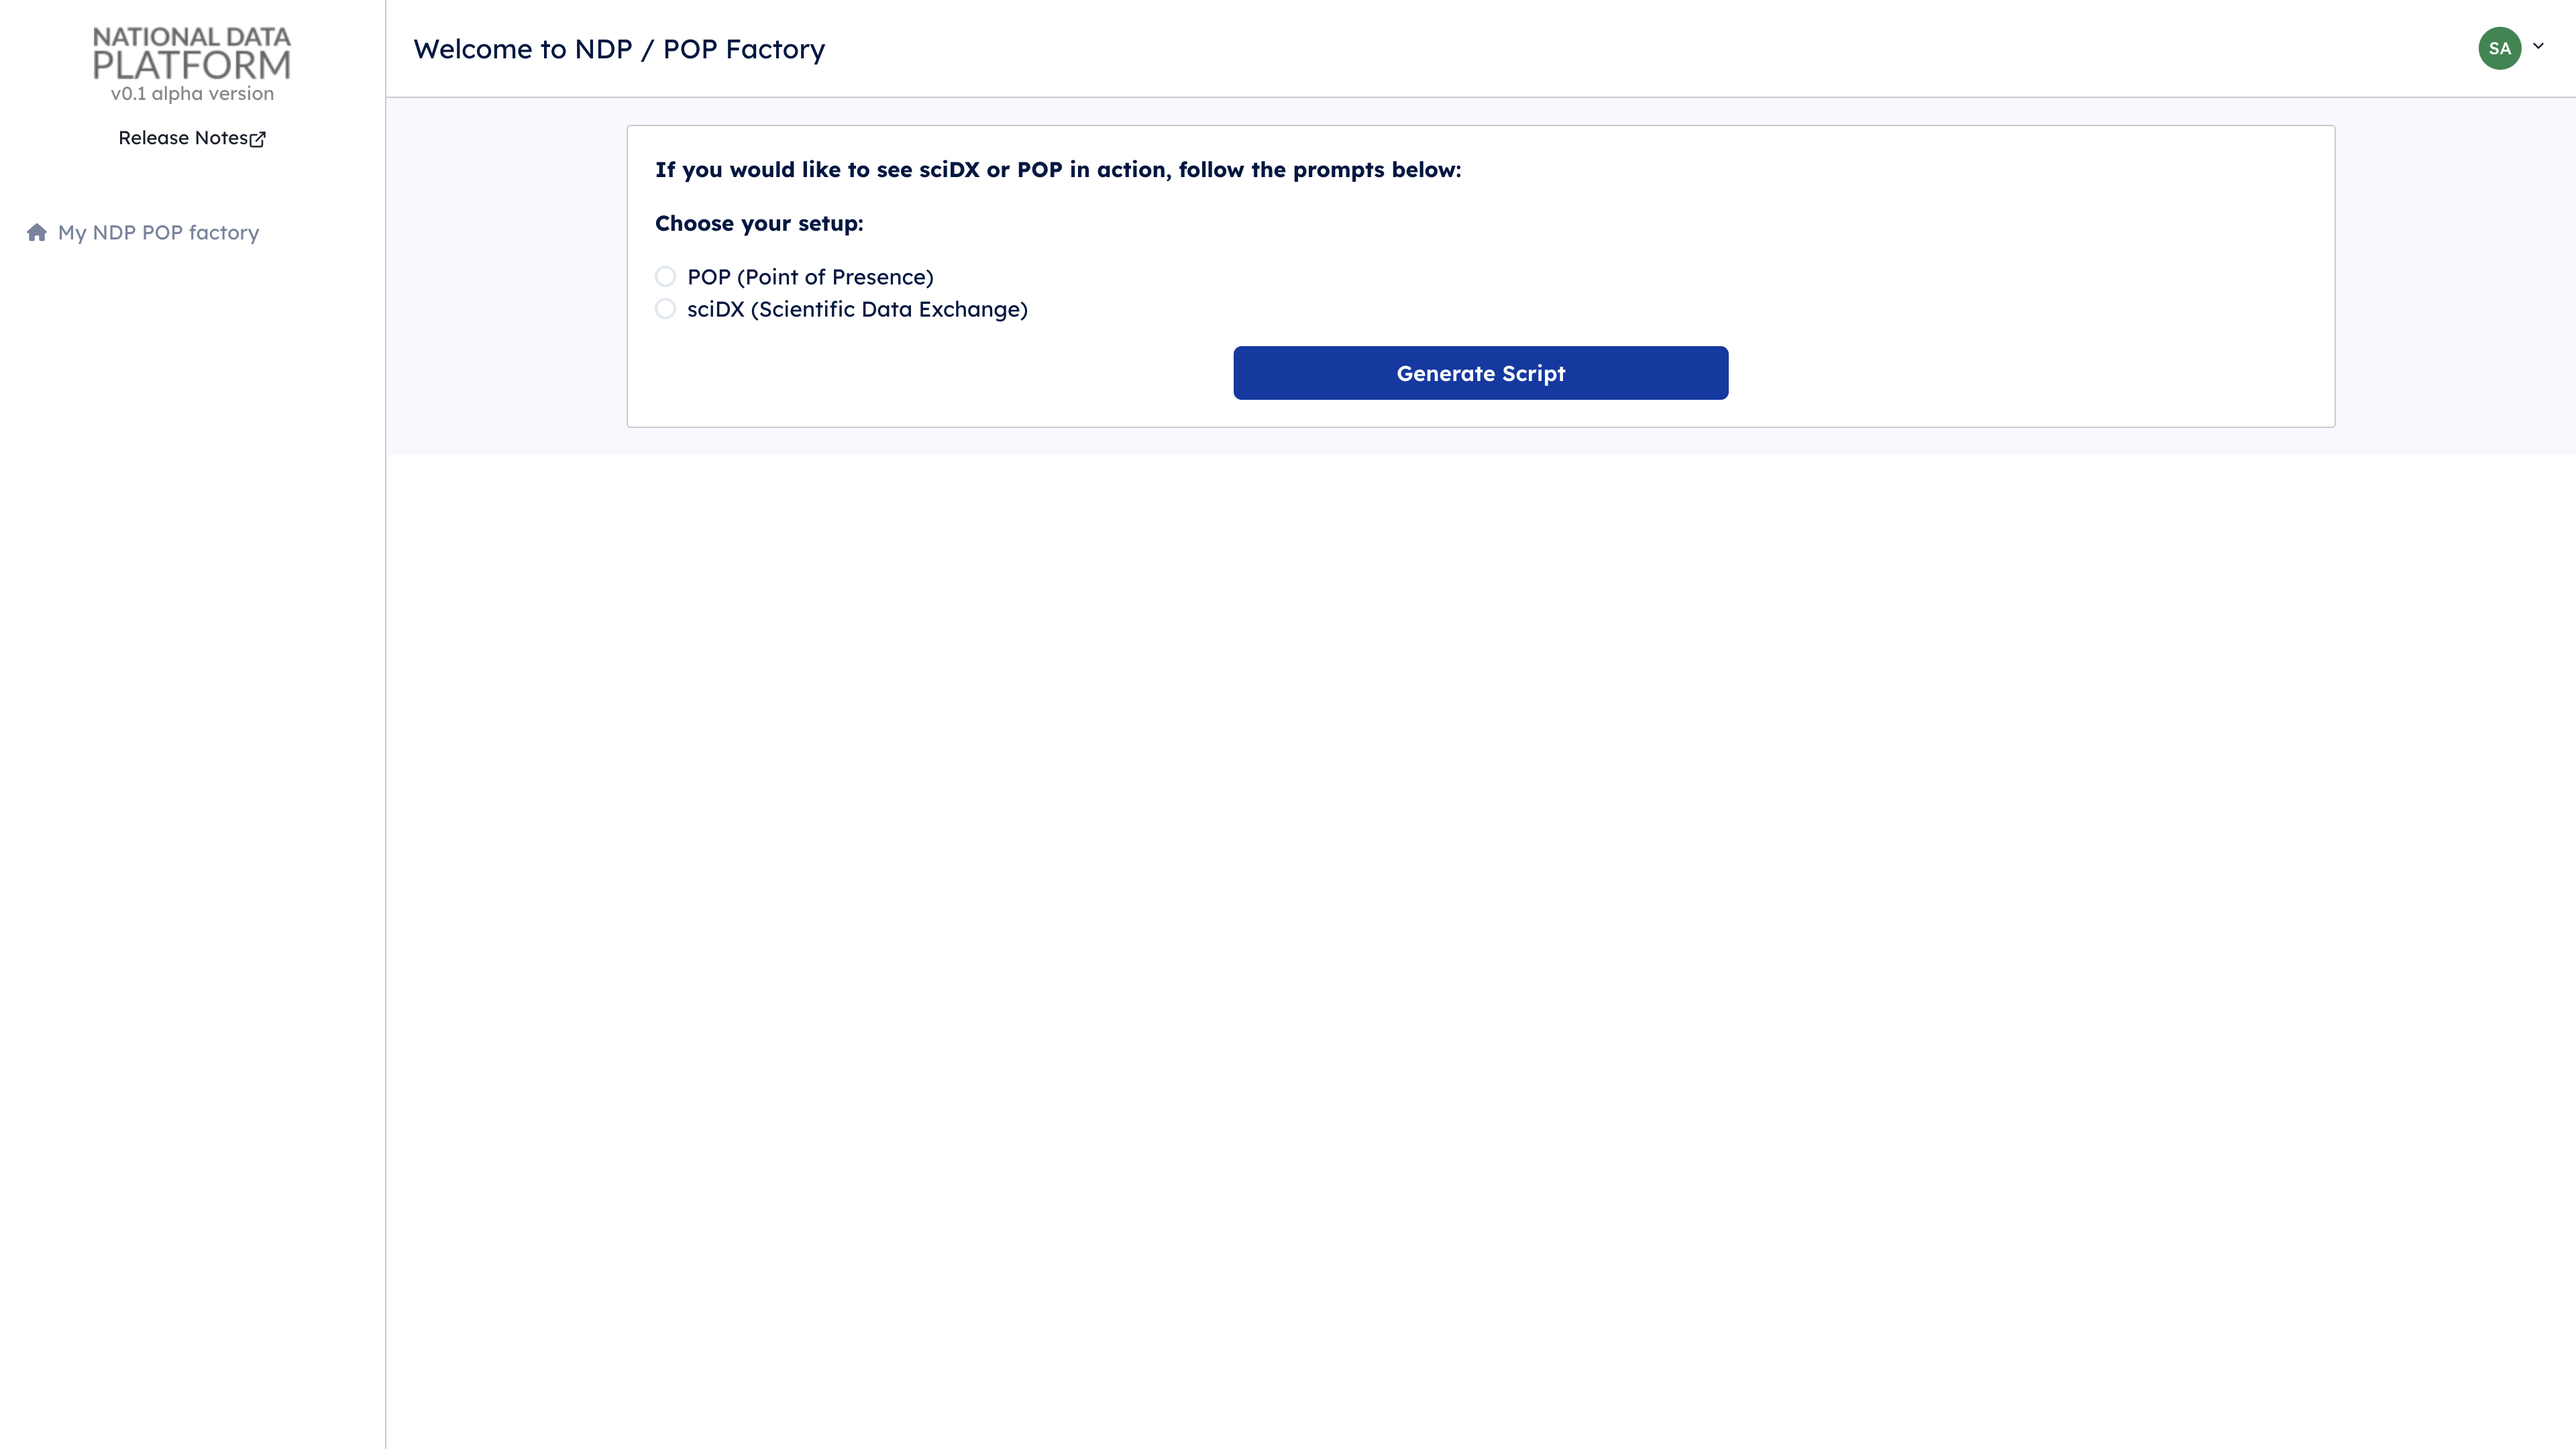
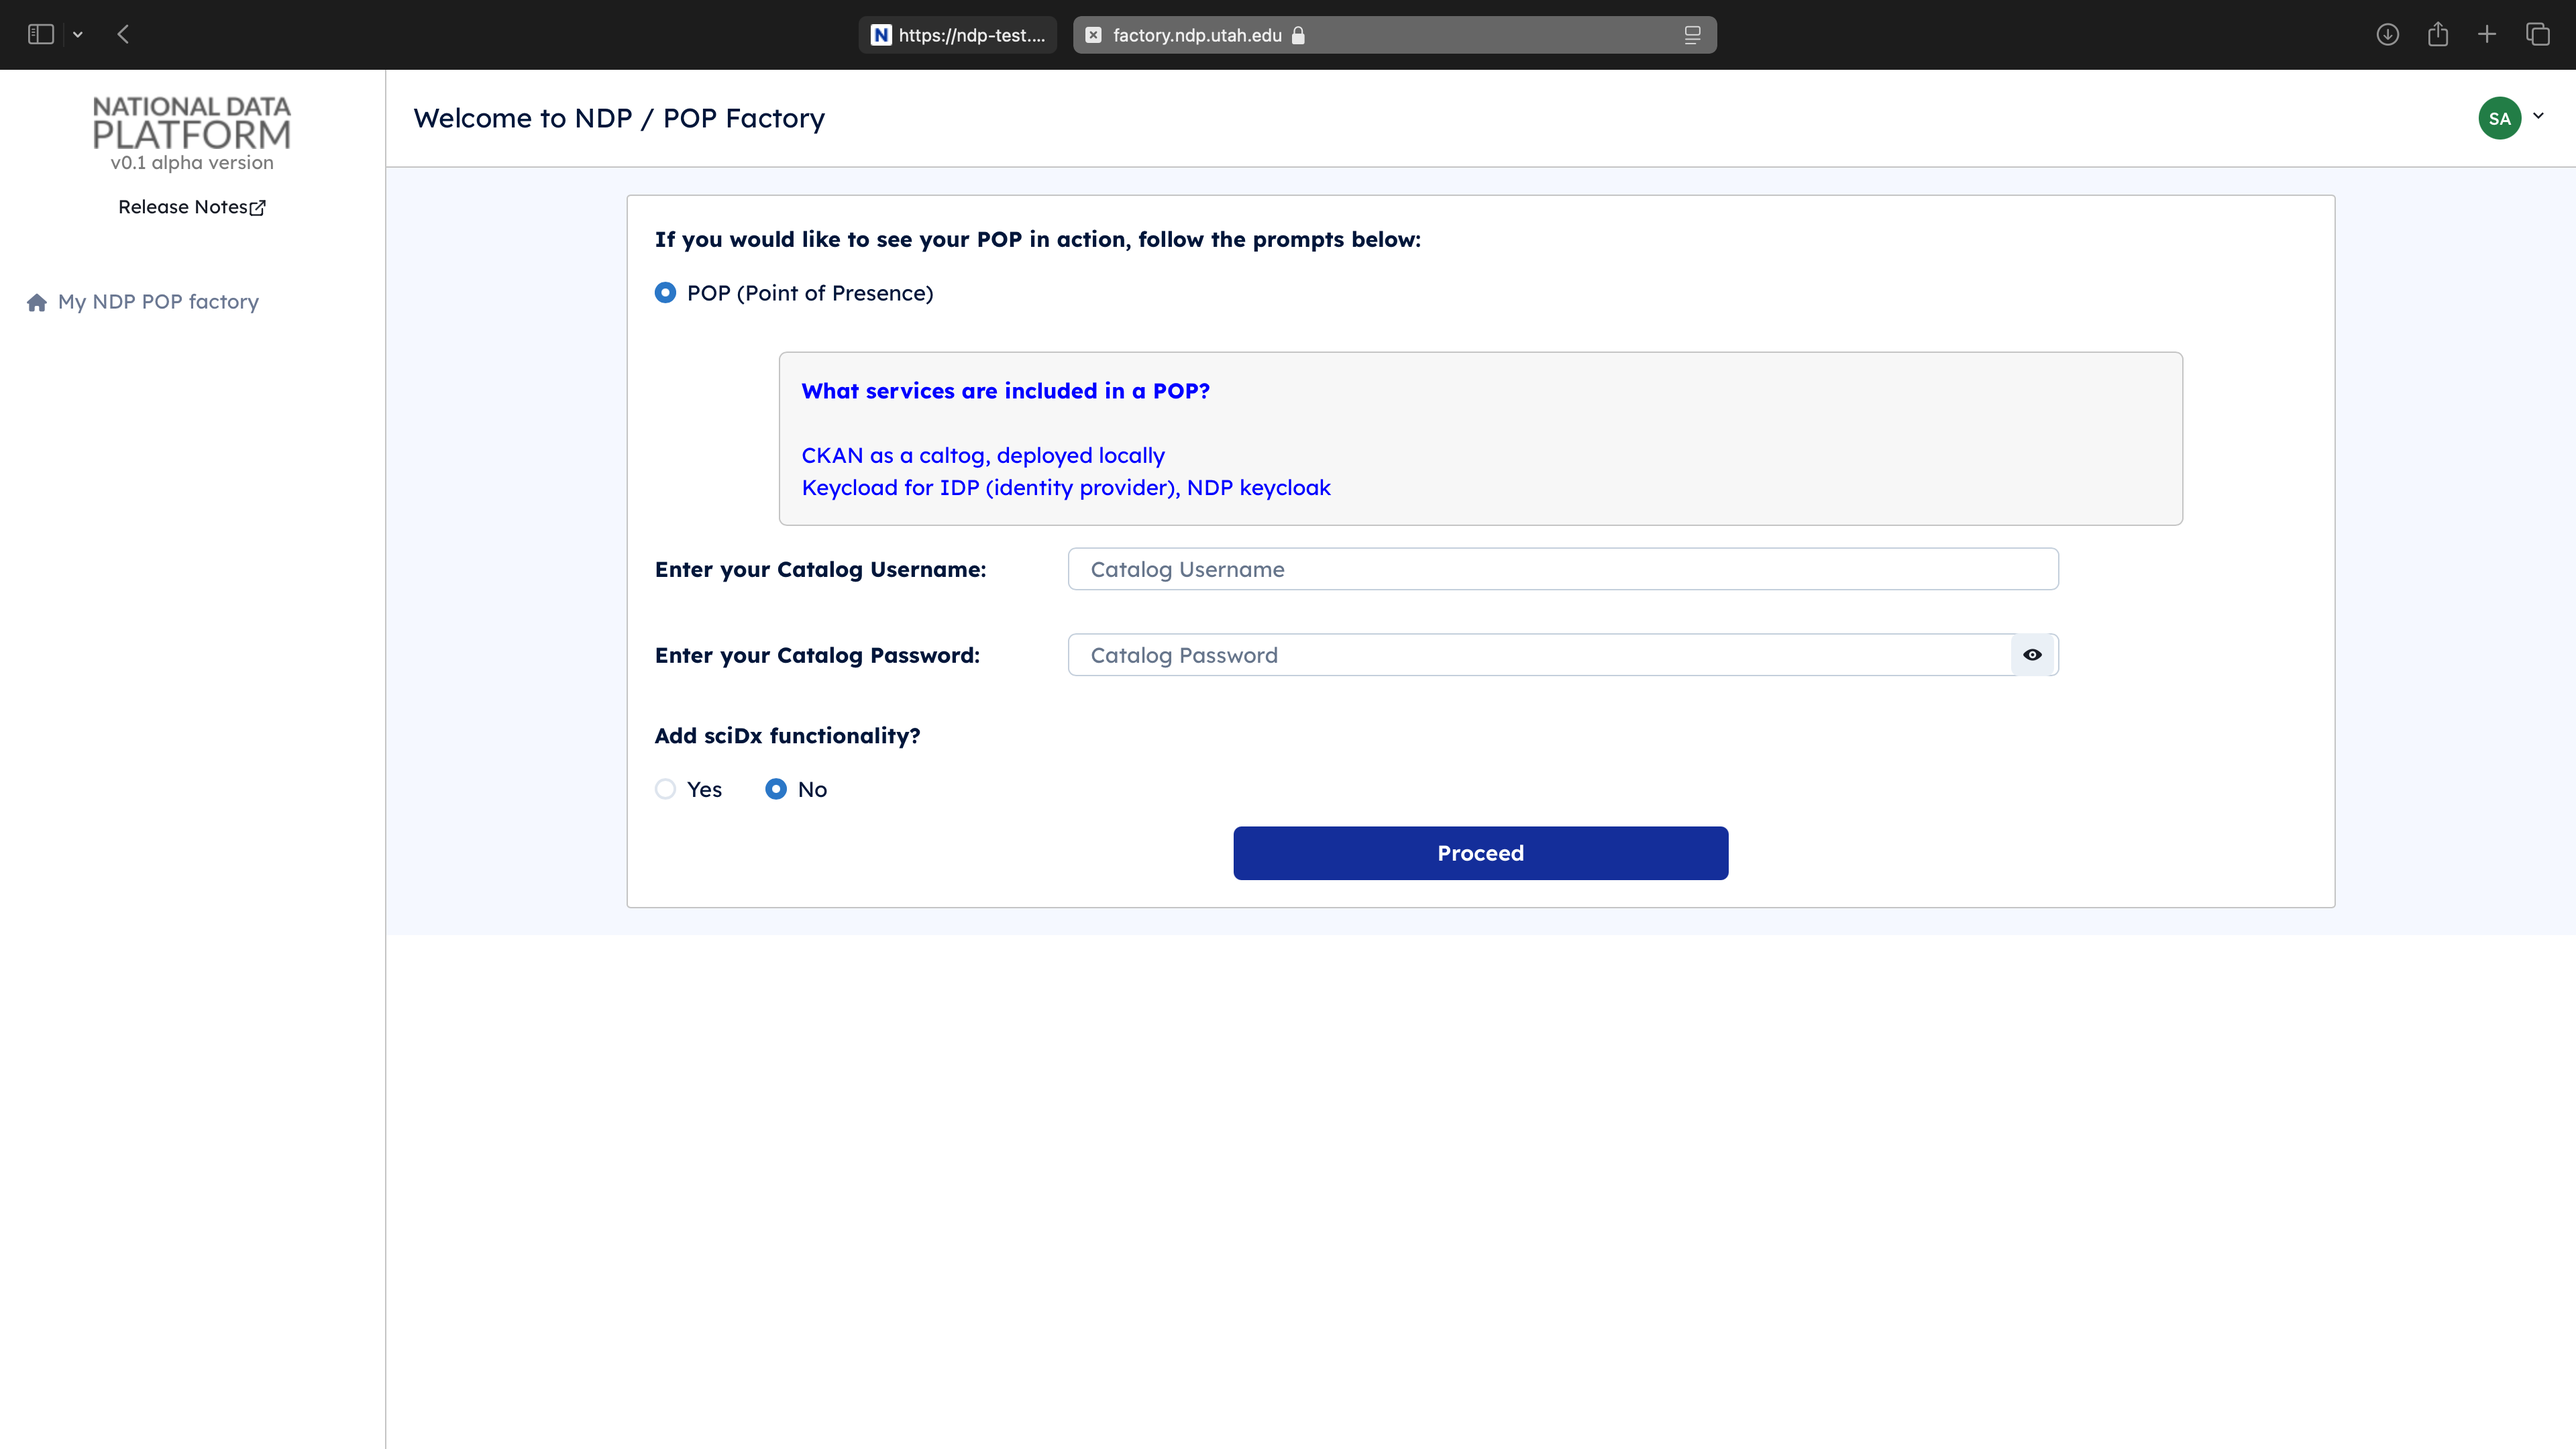
update pop documentation

diff --git a/docs/pop/setup.md b/docs/pop/setup.md
@@ -39,7 +39,7 @@ Once logged in, locate and click on **POPs** in the sidebar or main navigation t
    ![Step 3](./images/3.png)
 
 ## Step 4: Choose POP Setup
-You will see an option to choose between POP (Point of Presence) or sciDX (Scientific Data Exchange). Select **POP** to proceed.
+ **POP** is selected by default.
 
    ![Step 4](./images/4.png)
 
@@ -47,14 +47,14 @@ You will see an option to choose between POP (Point of Presence) or sciDX (Scien
 A form will appear asking for specific details:
    - **Catalog Username**: Enter your catalog username.
    - **Catalog Password**: Enter your catalog password.
-   - **IDP Client ID**: Enter the client ID for the Identity Provider. Contact the National Data Platform IDP Admins ([Andreu](https://github.com/Andreufb), [Sergey](https://github.com/sergeygurvich)) to get this information.
-   - **IDP Client Secret**: Enter the client secret.
-   - **Realm Name**: Enter the appropriate realm name.
+  
 
    ![Step 5](./images/5.png)
 
 ## Step 6: Generate the Script
-Fill in the required fields and click on the **Generate Script** button.
+Fill in the required fields and click on the **Proceed** to Accept the Terms of Service.
+then press on the **Generate** button
+
 
    ![Step 6](./images/6.png)
 
